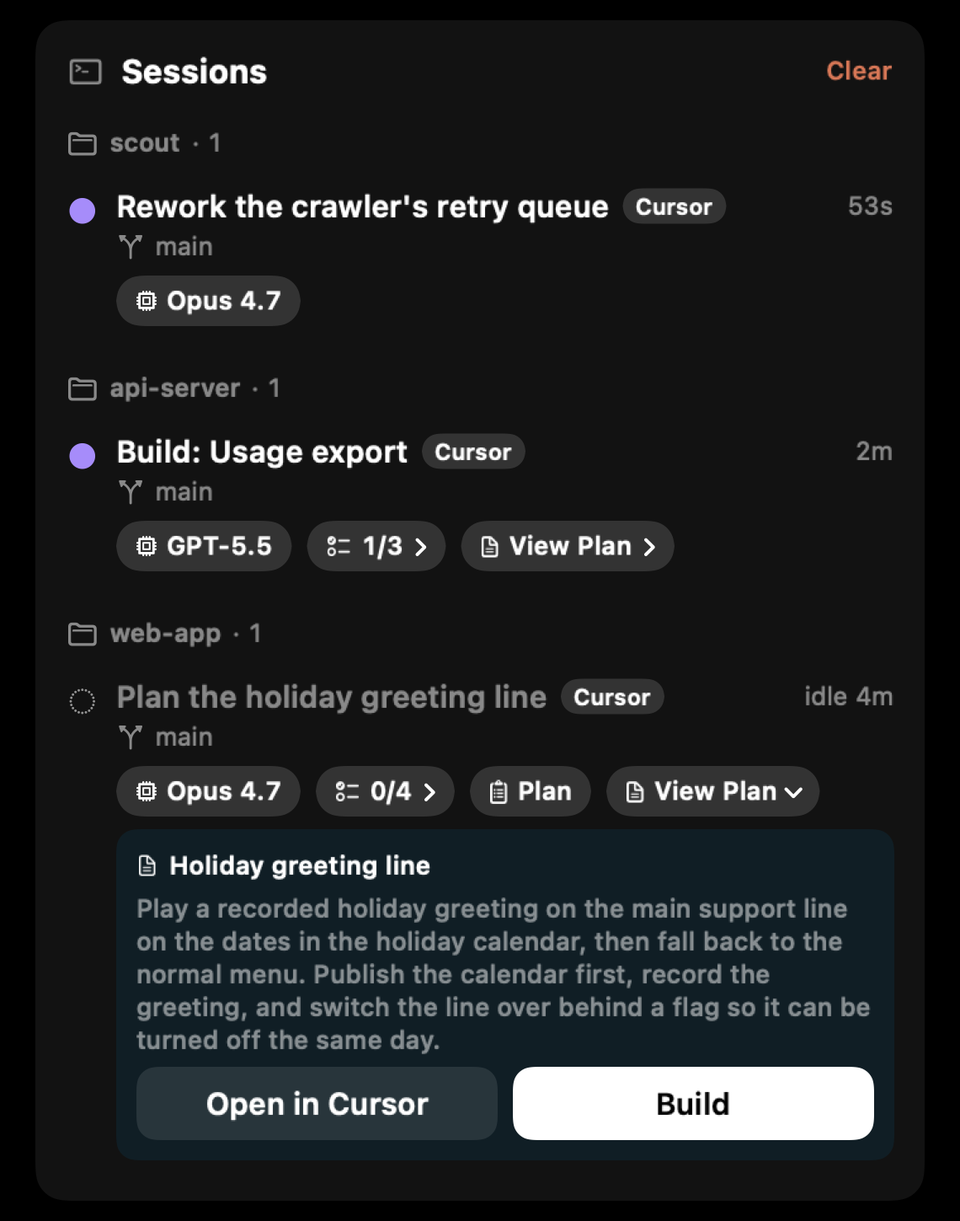
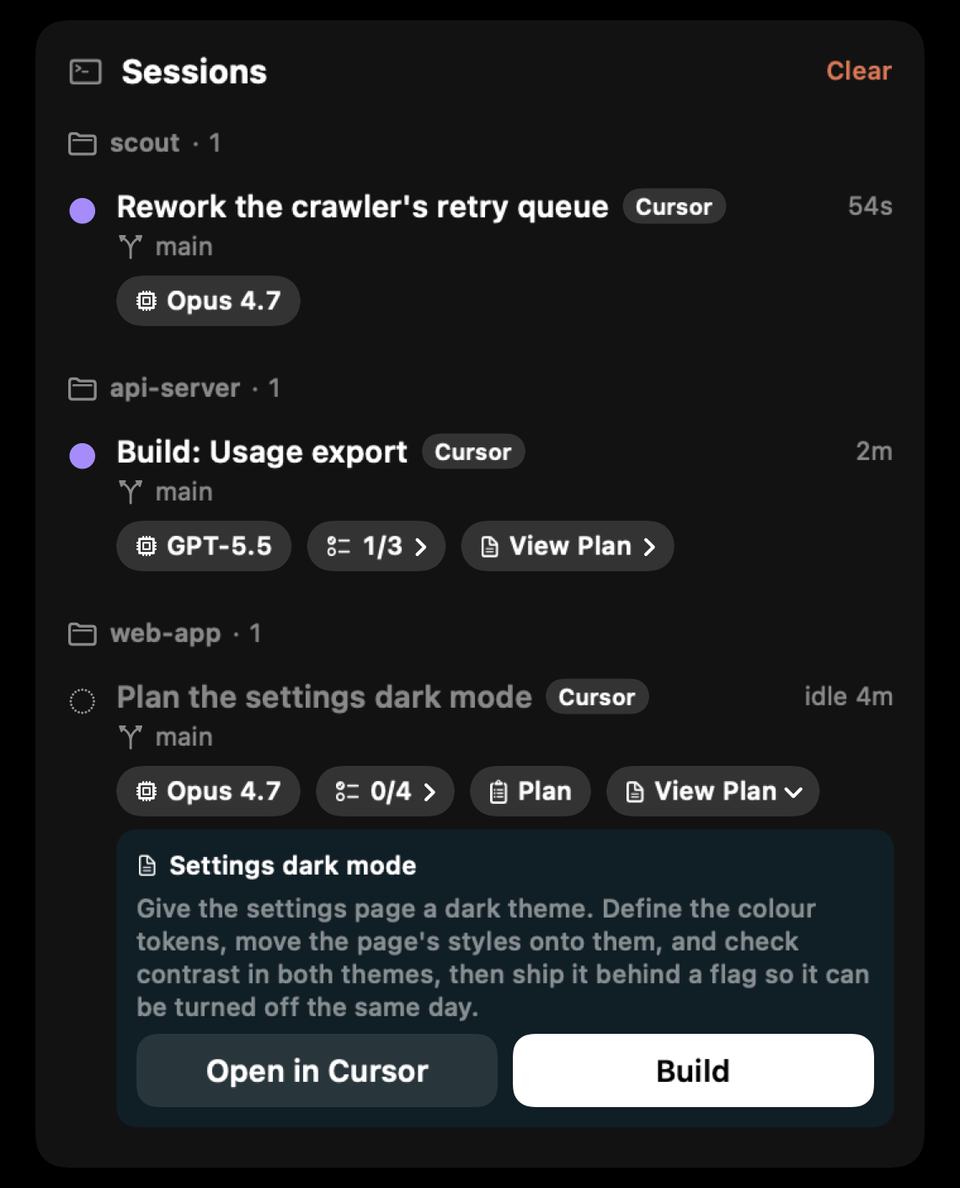
a click elsewhere leaves the notch open on Cursor's card; the pictures' plan is made up afresh
- A notch that opened on one of Cursor's own cards closed on the next click
  anywhere else, and is not opened twice for one card, so Run had to be fetched
  from the whole panel (reported 2026-10-05). It now ignores that click, as a
  panel with a request on it does (`PanelHolds.staysOpenOnOutsideClick`, both
  layouts). A click on the readouts, the shortcut, a swipe, the pointer coming in
  and leaving under Open on hover, and Show the whole panel are as they were.
- The made-up plan in the Cursor pictures was a holiday greeting line, which is
  the owner's own work. It is a settings page's dark mode now, in the fixture and
  in both pictures; `cursor-notch.png` is drawn again with it, and with View Plan
  as the chip that opens it has become.

Claude-Session: https://claude.ai/code/session_01WatWjXxWe8cfoq473eoYRe

diff --git a/Sources/Notchmeter/DemoFixtures.swift b/Sources/Notchmeter/DemoFixtures.swift
@@ -838,9 +838,9 @@ extension DemoFixtures {
         }
         let chats = cursorNotchChats
         // A plan made in Plan mode and not yet built: View Plan and Build are on its row.
-        feed(380, #"{"hook_event_name":"beforeSubmitPrompt","conversation_id":"n-1","workspace_roots":["/Users/me/web-app"],"composer_mode":"plan","model":"claude-opus-4-7","prompt":"Plan the holiday greeting line"}"#)
-        plan(chats.ready, 300, file: "/Users/me/.cursor/plans/holiday_greeting_1a2b3c4d.plan.md", [
-            #"{"role":"assistant","message":{"content":[{"type":"tool_use","name":"CreatePlan","input":{"name":"Holiday greeting line","todos":[{"id":"a","content":"Publish the holiday calendar"},{"id":"b","content":"Record the greeting"},{"id":"c","content":"Route the inbound line to it"},{"id":"d","content":"Call the number and listen"}]}}]}}"#,
+        feed(380, #"{"hook_event_name":"beforeSubmitPrompt","conversation_id":"n-1","workspace_roots":["/Users/me/web-app"],"composer_mode":"plan","model":"claude-opus-4-7","prompt":"Plan the settings dark mode"}"#)
+        plan(chats.ready, 300, file: "/Users/me/.cursor/plans/settings_dark_mode_1a2b3c4d.plan.md", [
+            #"{"role":"assistant","message":{"content":[{"type":"tool_use","name":"CreatePlan","input":{"name":"Settings dark mode","todos":[{"id":"a","content":"Add the colour tokens"},{"id":"b","content":"Move the settings page onto them"},{"id":"c","content":"Check contrast in both themes"},{"id":"d","content":"Ship it behind a flag"}]}}]}}"#,
         ])
         feed(290, #"{"hook_event_name":"stop","conversation_id":"n-1","workspace_roots":["/Users/me/web-app"],"status":"completed"}"#)
         // A plan being built: the turn is named for the plan, and a command is waiting on Cursor's own Run card.
@@ -858,8 +858,8 @@ extension DemoFixtures {
     /// What View Plan shows for the ready chat's plan (`cursor-plan.png`): the name the fixture's `CreatePlan` gave it
     /// and an overview as Cursor writes one, a sentence or two on what the plan does. Made up, like the chats.
     static let cursorPlanPreview = CursorPlanFiles.Preview(
-        name: "Holiday greeting line",
-        summary: "Play a recorded holiday greeting on the main support line on the dates in the holiday calendar, then fall back to the normal menu. Publish the calendar first, record the greeting, and switch the line over behind a flag so it can be turned off the same day.")
+        name: "Settings dark mode",
+        summary: "Give the settings page a dark theme. Define the colour tokens, move the page's styles onto them, and check contrast in both themes, then ship it behind a flag so it can be turned off the same day.")
 
     /// The cards Cursor's windows would be showing for `cursorNotch`: the building chat's Run prompt and the
     /// third chat's mode switch, as CursorCards.detect reads them.

diff --git a/Sources/Notchmeter/NotchController.swift b/Sources/Notchmeter/NotchController.swift
@@ -182,6 +182,16 @@ struct PanelHolds {
     static func pausesHover(menuOpen: Bool, held: Bool, promptHeld: Bool, expanded: Bool) -> Bool {
         menuOpen || held || (promptHeld && expanded)
     }
+
+    /// Whether a click somewhere else leaves an open panel open: while a request is on it, and while it is open on
+    /// one of Cursor's own cards alone (AttentionNotice.forCursorCard). Both are a question the assistant is stopped
+    /// on, and the next click is nearly always in the window being worked in, not a wish to be rid of the card: until
+    /// 0.9.18 that click closed the notch on Cursor's card, which is then not opened again for that card, so Run had
+    /// to be fetched from the whole panel. A click on the readouts, the shortcut, a swipe and, under Open on hover,
+    /// the pointer coming in and leaving still close it, and *Show the whole panel* makes it a panel like any other.
+    static func staysOpenOnOutsideClick(promptHeld: Bool, onCursorCard: Bool, expanded: Bool) -> Bool {
+        expanded && (promptHeld || onCursorCard)
+    }
 }
 
 /// The right-click / Options menu shared by every panel style and the menu bar item.
@@ -456,7 +466,10 @@ final class NotchController: NSObject, PanelPresenting {
         hover.isPaused = { [weak self] in
             self.map { PanelHolds.pausesHover(menuOpen: $0.menu.isOpen, held: $0.held, promptHeld: $0.promptHeld, expanded: $0.hover.state == .expanded) } ?? false
         }
-        hover.holdsOpen = { [weak self] in self.map { $0.promptHeld && $0.hover.state == .expanded } ?? false }
+        hover.holdsOpen = { [weak self] in
+            self.map { PanelHolds.staysOpenOnOutsideClick(promptHeld: $0.promptHeld, onCursorCard: $0.store.attentionNotice?.forCursorCard == true,
+                                                          expanded: $0.hover.state == .expanded) } ?? false
+        }
         hover.isOffScreen = { [weak self] in
             guard let self, let window = self.notch.windowController?.window, window.isVisible else { return false }
             return !window.isOnActiveSpace

diff --git a/Tests/NotchmeterTests/PanelHoldTests.swift b/Tests/NotchmeterTests/PanelHoldTests.swift
@@ -48,6 +48,12 @@ import Testing
         #expect(PanelHolds.pausesHover(menuOpen: true, held: false, promptHeld: false, expanded: false))
         #expect(PanelHolds.pausesHover(menuOpen: false, held: true, promptHeld: false, expanded: true))
         #expect(!PanelHolds.pausesHover(menuOpen: false, held: false, promptHeld: false, expanded: true))
+        // A click somewhere else leaves a panel open while a request is on it, and while it is open on one of
+        // Cursor's own cards alone (0.9.18: that click closed the notch, which is not opened twice for one card).
+        #expect(PanelHolds.staysOpenOnOutsideClick(promptHeld: true, onCursorCard: false, expanded: true))
+        #expect(PanelHolds.staysOpenOnOutsideClick(promptHeld: false, onCursorCard: true, expanded: true))
+        #expect(!PanelHolds.staysOpenOnOutsideClick(promptHeld: false, onCursorCard: false, expanded: true), "any other panel closes on it")
+        #expect(!PanelHolds.staysOpenOnOutsideClick(promptHeld: true, onCursorCard: true, expanded: false), "a closed panel holds nothing")
         #expect(!PanelHolds.pausesHover(menuOpen: false, held: false, promptHeld: false, expanded: false))
     }
 

diff --git a/Sources/Notchmeter/EdgePanelController.swift b/Sources/Notchmeter/EdgePanelController.swift
@@ -76,7 +76,10 @@ final class EdgePanelController: NSObject, PanelPresenting {
         hover.isPaused = { [weak self] in
             self.map { PanelHolds.pausesHover(menuOpen: $0.menu.isOpen, held: $0.held, promptHeld: $0.promptHeld, expanded: $0.expanded) } ?? false
         }
-        hover.holdsOpen = { [weak self] in self.map { $0.promptHeld && $0.expanded } ?? false }
+        hover.holdsOpen = { [weak self] in
+            self.map { PanelHolds.staysOpenOnOutsideClick(promptHeld: $0.promptHeld, onCursorCard: $0.store.attentionNotice?.forCursorCard == true,
+                                                          expanded: $0.expanded) } ?? false
+        }
         hover.isOffScreen = { [weak self] in self.map { $0.panel.isVisible && !$0.panel.isOnActiveSpace } ?? false }
         hover.pointerEnteredCompact = { [weak self] in self?.store.wakeFromIdle() }
         hover.ringAt = { [weak self] point in self?.ringTargets.tool(at: point) }

diff --git a/site/cursor-usage-tracker/index.html b/site/cursor-usage-tracker/index.html
@@ -189,7 +189,7 @@
   <div class="wrap">
     <div class="split">
       <figure class="lp-figure fit-narrow">
-        <div class="shot"><img src="../img/cursor-plan.png" alt="The Sessions card with three Cursor chats. The chat with a plan ready has it shown on its row: the plan's name, Holiday greeting line, a short summary of what the plan does, and two buttons under it, Open in Cursor and Build." loading="lazy"></div>
+        <div class="shot"><img src="../img/cursor-plan.png" alt="The Sessions card with three Cursor chats. The chat with a plan ready has it shown on its row: the plan's name, Settings dark mode, a short summary of what the plan does, and two buttons under it, Open in Cursor and Build." loading="lazy"></div>
         <figcaption>View Plan on a made-up chat: the plan's name and Cursor's own summary of it on the row, with Open in Cursor and Build under them.</figcaption>
       </figure>
       <div>

diff --git a/docs/hooks.md b/docs/hooks.md
@@ -349,7 +349,7 @@ The file **Add** writes is the same object with its keys sorted, so `"hooks"` co
 **Answering Cursor from the notch (0.9.15).** Two switches on Cursor's page in Settings, both off by default:
 
 - **Require notch approval for every command.** `beforeShellExecution` and `beforeMCPExecution` are the two events Cursor waits on and whose flat answer it obeys: `{"permission":"allow"}`, `{"permission":"deny","user_message":…,"agent_message":…}` or `{"permission":"ask"}`. They fire for every call, after Cursor's own allowlist, so with this on every shell command and MCP call waits for Allow or Deny in the notch, including the ones Cursor would have run without asking. Silence would let the call run, so a call nobody answers prints `{"permission":"ask"}` and Cursor shows its own prompt. The same is printed for a call the command could not hold: a payload too large or too late to read whole, a shell call naming no command, an MCP call with no usable tool name. While one call for a chat is on the notch's card, a second held for the same chat (a call made beside it, or a subagent's) is handed to Cursor's own prompt too, so the card never changes under a click. The switch counts only while *Answer from the notch* is on for Cursor and Cursor's sessions are read; with either off the command holds nothing. The card's third answer, *Answer in Cursor*, does the same on purpose: it hands the call back to Cursor's own prompt. What the switch cannot cover is the hook itself not running: the entries carry no `failClosed` (it must stay off, because with the switch off the command prints nothing, and under `failClosed` no output would stop every command), so if the command cannot be started, crashes, or outlives its 600-second timeout, Cursor carries on under its own rules, its allowlist and its own prompt, with no decision from the notch. *Require notch approval* is a hold on every call the hook is asked about, not a guarantee against a hook that never answered. Off, the two events stay signs of life, as before. `preToolUse` is not used, because Cursor does not enforce its `ask`.
-- **Mirror Cursor's cards.** Cursor's own Run prompt and its mode-switch card have no hook event, and neither has the Build button on a created plan's card. With this on and the Accessibility permission granted, the app reads Cursor's windows through Accessibility once a second while a Cursor chat on this Mac is in a turn (it sets `AXManualAccessibility` so Cursor's Electron window builds its tree, bounded to 20,000 nodes per read, one message to Cursor per element), shows the Run card (Skip, Run, and Always Run where Cursor offers it) and the mode-switch card (Skip, Switch) on the chat's row with Cursor's own button labels, and presses the button you pick. The mode card's *Always ask* is a menu that sets a preference (Always ask, Always run), not an answer, so it stays in Cursor; Cursor withdraws that card by itself after fifteen seconds. A Run card is headed by the command it would run, read from the card, not by the sentence written about it. The app re-reads the card before the press and presses nothing if the card changed, then checks the card went away. Since 0.9.17 a card that starts a wait opens the notch on that chat's card alone, its buttons on it and *Show the whole panel* under it, the way a held request's card opens it. It is opened to stay, as a click opens it, and closes when the card has been answered, in the notch or in Cursor, or the way any open panel is closed (Escape, a click outside), after which it is not opened again for that card. Unlike a request's card it does not take the keyboard: its buttons have no shortcuts, and a card nobody asked for must not take the keys from the app being typed in. A panel already open keeps the card on its row; a held request keeps the panel, taking over one that was open on a card; nothing opens over one of the app's own windows or over a full-screen app the notch is keeping out of; and a card that appears on a chat already waiting (a call handed back with *Answer in Cursor*) opens nothing, since it is being answered there. Two things keep a card from flickering. A read of Cursor's window that Cursor did not answer in time comes back short, and is waited out (three in a row are taken as they are) instead of taking the card off its row; and a card that leaves Cursor's tree and is back within three seconds, as happens while the chat redraws, is the same card, so the notch is not opened on it twice. While a press is on its way the card's buttons are held and Cursor's window is not read beside it; the card then leaves the row with the note that says what was pressed, in one change, and a read of the window that was out across the press is dropped, so it cannot put the card back (0.9.16 left the card beside the note until the next read, and the row jumped). Nothing is read while every Cursor chat is idle or finished, while the Mac is locked or asleep, or with the switch off, and turning the switch off, or quitting, tells Cursor the app has stopped reading. It never reads the screen's pixels, and keeps no text from the window beyond each card's heading (at most 160 characters), a question's choices, the chat's name where the window shows one and the button labels, held in memory and written to no log, report or notification. Since 0.9.16: Cursor shows the same Skip and Run for other things it asks you to approve, a file written outside the workspace for one; with no command drawn the card says *Cursor is waiting for your approval* and is headed by what the approval is for, as Cursor words it (*Create* and the file's path). A question the agent asks (its `AskQuestion` tool) is mirrored as *Cursor is asking a question*, with the question and its choices as Cursor letters them, and one button, **Answer in Cursor**, that brings the chat's window forward (the folder the hook named, as a click on the row does, or Cursor itself when it named none; a button of its own, so it works with *Jump to the terminal on click* off): the row says the chat is waiting, which no hook does, and the answer is given in Cursor. The question and its choices are hidden like a prompt's title, with *Show what a session is working on* off or the screen shared, and the card and its button stay. A choice there is picked and then sent with Continue, which Cursor draws as plain text and not as a button, and nothing in its tree says which choices are picked or whether several may be, so the app presses none of it. A plan row's **View Plan** shows the plan on the row (0.9.18): its name and Cursor's own `overview`, read from the plan file's frontmatter when the preview is opened, or the first heading and first paragraph of its text where the frontmatter has neither, cut to 120 and 480 characters. They are held in memory only while the preview is open, are written to no log, report or notification, and go with the titles: with *Show what a session is working on* off or the screen shared nothing of a plan is read onto the row, and View Plan goes straight to Cursor. **Open in Cursor** on the preview opens the plan file in Cursor and closes the panel, which otherwise stood over the plan it had just opened (a panel with a request on it stays, and so does one under Always open); a row's jump to its terminal and **Answer in Cursor** close it the same way; **Build** takes one read of its own, presses Build on that plan's card, or opens the plan in Cursor and says so when the card is not on screen. Which row a card goes on: the one Cursor chat that is in a turn; among several, the one the Agents window's header names, else the one in the workspace an editor window's title names, else, in the Agents window only, the one heard from last, and the card then stays on that row while it is on screen. Since 0.9.16, when the header names a chat no row is known by yet, the app reads Cursor's own names for the chats in a turn (the read described under *Cursor's own name for a chat* below, with its same two conditions) once for that card and places the card on the next read of the window, a second later, so it is not put on the chat heard from last and left there.
+- **Mirror Cursor's cards.** Cursor's own Run prompt and its mode-switch card have no hook event, and neither has the Build button on a created plan's card. With this on and the Accessibility permission granted, the app reads Cursor's windows through Accessibility once a second while a Cursor chat on this Mac is in a turn (it sets `AXManualAccessibility` so Cursor's Electron window builds its tree, bounded to 20,000 nodes per read, one message to Cursor per element), shows the Run card (Skip, Run, and Always Run where Cursor offers it) and the mode-switch card (Skip, Switch) on the chat's row with Cursor's own button labels, and presses the button you pick. The mode card's *Always ask* is a menu that sets a preference (Always ask, Always run), not an answer, so it stays in Cursor; Cursor withdraws that card by itself after fifteen seconds. A Run card is headed by the command it would run, read from the card, not by the sentence written about it. The app re-reads the card before the press and presses nothing if the card changed, then checks the card went away. Since 0.9.17 a card that starts a wait opens the notch on that chat's card alone, its buttons on it and *Show the whole panel* under it, the way a held request's card opens it. It is opened to stay, and closes when the card has been answered, in the notch or in Cursor. Since 0.9.18 a click somewhere else does not close it, as it does not close a request's card: the next click is nearly always in the window being worked in, and a notch closed by it is not opened again for that card, which left Run to be fetched from the whole panel. Putting it away without answering is a click on the readouts beside the notch (under Open on click), the shortcut, a swipe up over them, or, under Open on hover, the pointer coming in and leaving; *Show the whole panel* makes it a panel like any other. After any of those it is not opened again for that card. Unlike a request's card it does not take the keyboard: its buttons have no shortcuts, and a card nobody asked for must not take the keys from the app being typed in. A panel already open keeps the card on its row; a held request keeps the panel, taking over one that was open on a card; nothing opens over one of the app's own windows or over a full-screen app the notch is keeping out of; and a card that appears on a chat already waiting (a call handed back with *Answer in Cursor*) opens nothing, since it is being answered there. Two things keep a card from flickering. A read of Cursor's window that Cursor did not answer in time comes back short, and is waited out (three in a row are taken as they are) instead of taking the card off its row; and a card that leaves Cursor's tree and is back within three seconds, as happens while the chat redraws, is the same card, so the notch is not opened on it twice. While a press is on its way the card's buttons are held and Cursor's window is not read beside it; the card then leaves the row with the note that says what was pressed, in one change, and a read of the window that was out across the press is dropped, so it cannot put the card back (0.9.16 left the card beside the note until the next read, and the row jumped). Nothing is read while every Cursor chat is idle or finished, while the Mac is locked or asleep, or with the switch off, and turning the switch off, or quitting, tells Cursor the app has stopped reading. It never reads the screen's pixels, and keeps no text from the window beyond each card's heading (at most 160 characters), a question's choices, the chat's name where the window shows one and the button labels, held in memory and written to no log, report or notification. Since 0.9.16: Cursor shows the same Skip and Run for other things it asks you to approve, a file written outside the workspace for one; with no command drawn the card says *Cursor is waiting for your approval* and is headed by what the approval is for, as Cursor words it (*Create* and the file's path). A question the agent asks (its `AskQuestion` tool) is mirrored as *Cursor is asking a question*, with the question and its choices as Cursor letters them, and one button, **Answer in Cursor**, that brings the chat's window forward (the folder the hook named, as a click on the row does, or Cursor itself when it named none; a button of its own, so it works with *Jump to the terminal on click* off): the row says the chat is waiting, which no hook does, and the answer is given in Cursor. The question and its choices are hidden like a prompt's title, with *Show what a session is working on* off or the screen shared, and the card and its button stay. A choice there is picked and then sent with Continue, which Cursor draws as plain text and not as a button, and nothing in its tree says which choices are picked or whether several may be, so the app presses none of it. A plan row's **View Plan** shows the plan on the row (0.9.18): its name and Cursor's own `overview`, read from the plan file's frontmatter when the preview is opened, or the first heading and first paragraph of its text where the frontmatter has neither, cut to 120 and 480 characters. They are held in memory only while the preview is open, are written to no log, report or notification, and go with the titles: with *Show what a session is working on* off or the screen shared nothing of a plan is read onto the row, and View Plan goes straight to Cursor. **Open in Cursor** on the preview opens the plan file in Cursor and closes the panel, which otherwise stood over the plan it had just opened (a panel with a request on it stays, and so does one under Always open); a row's jump to its terminal and **Answer in Cursor** close it the same way; **Build** takes one read of its own, presses Build on that plan's card, or opens the plan in Cursor and says so when the card is not on screen. Which row a card goes on: the one Cursor chat that is in a turn; among several, the one the Agents window's header names, else the one in the workspace an editor window's title names, else, in the Agents window only, the one heard from last, and the card then stays on that row while it is on screen. Since 0.9.16, when the header names a chat no row is known by yet, the app reads Cursor's own names for the chats in a turn (the read described under *Cursor's own name for a chat* below, with its same two conditions) once for that card and places the card on the next read of the window, a second later, so it is not put on the chat heard from last and left there.
 
   One cost is visible in Cursor: asked for its accessibility tree, Cursor takes the asker for a screen reader, and its editor's status bar shows *Screen Reader Optimized* (Cursor 3.23.12). Setting `"editor.accessibilitySupport": "off"` in Cursor's settings keeps the editor as it was while the cards are still read.
 

diff --git a/docs/features.md b/docs/features.md
@@ -42,7 +42,7 @@ With the optional [hooks](hooks.md) — one each for Claude Code, Codex, Cursor,
 
 ![The Sessions card with three Cursor chats. One asks to switch to Plan Mode, with Skip and Switch on its row. One is building a plan, its task list open at one of three done, with Cursor's Run prompt on the row: the command, Skip and Run. One has a plan ready, with its Plan mode chip, View Plan and Build.](media/cursor-notch.png)
 
-![The Sessions card with three Cursor chats. The chat with a plan ready has it shown on its row: the plan's name, Holiday greeting line, a short summary of what the plan does, and two buttons under it, Open in Cursor and Build.](media/cursor-plan.png)
+![The Sessions card with three Cursor chats. The chat with a plan ready has it shown on its row: the plan's name, Settings dark mode, a short summary of what the plan does, and two buttons under it, Open in Cursor and Build.](media/cursor-plan.png)
 
 **Sessions before any hook** (0.9.0). The card does not wait for a hook to be installed: *Find sessions without the hook* (Settings › Assistants › Sessions, on by default) lists the Claude Code, Codex, Cursor, Gemini CLI and Copilot sessions running in a terminal from the first launch, from the process, its folder, Claude Code's own session files and the end of its transcript, all read and never written. Such a row has the title Claude Code gave the session (only while titles are on and never while the screen is shared), the project, the branch on its second line ("feat/zero-config · iTerm"), the model chip where the rows' models differ, the elapsed time, a working-or-idle guess and the jump to its terminal, and a quiet dashed *detected* mark beside the assistant's chip whose tooltip says that its working is a guess that can trail the turn by a few seconds and that a wait for your answer is not shown (VoiceOver reads the row as *Found without the hook* with the hint *Working is a guess, and a wait for your answer is not shown without the hook*, and the status mark's tooltip says *Working, as far as the running process and its files show*). A detected session never raises the waiting hand, a notification or news in the notch, never lights the *just finished* tick and never holds the Mac awake. A session only Claude Code's status line has reported (the Welcome flow installs the status line even when the hook is declined) is such a row too: it keeps the status line's model, name and context gauge, takes the scan's working or idle, and wears the same mark. While any such row's assistant has no hook installed, the card ends on one line, *Install the hook for exact turn ends and answering from the notch.*, with an *Install the hook…* button that opens the hook's own install flow in Settings (nothing is written until you press Add there, after the usual backup). The hook's first event for a session takes its row over, and a session the hook reports is always the hook's. The scan runs every 3 seconds while an assistant is running and every 15 while none is, twice as long on battery, and not at all while nobody can see the screen; [docs/hooks.md](hooks.md#sessions-found-without-the-hook) has what is read and [docs/accuracy.md](accuracy.md#sessions-found-without-the-hook) what the guess can and cannot know. `--render-assets` draws the first launch as `expanded-detected.png`, with the card alone as `sessions-detected.png` and under Increase Contrast as `sessions-detected-contrast.png`, for review.
 

diff --git a/CHANGELOG.md b/CHANGELOG.md
@@ -7,6 +7,7 @@ Every released version of Notchmeter, newest first. From 0.7.0 each section is t
 ### Cursor
 
 - **View Plan** on a Cursor chat's row now shows the plan in the notch: its name and Cursor's own summary of it, with **Open in Cursor** under it, and **Build** beside that while the plan is ready to build. Open in Cursor takes you to the plan and closes the notch. Before, View Plan opened the plan in Cursor behind a notch that stayed open over it, under *Open on click* until you clicked somewhere else, so it looked as if nothing had happened. With *Show what a session is working on* off, or while the screen is shared, a plan's words are not shown and View Plan goes straight to Cursor.
+- A notch that opened on one of Cursor's own cards no longer closes when you click somewhere else, which left you to open the whole panel to reach Run. It stays until the card is answered, in the notch or in Cursor, or you put it away yourself: a click on the readouts beside the notch under *Open on click*, the pointer passing over it and away under *Open on hover*.
 - A click on a session's row that jumps to its terminal, and **Answer in Cursor**, now close the notch as they take you there, as Open in Cursor does. A panel with a request waiting for Allow or Deny stays open.
 - Cursor's page in Settings now says, under *Require notch approval for every command*, what that switch adds: it is not needed to answer Cursor from the notch, since *Mirror Cursor's cards* brings Cursor's own prompts there, and it asks about every command on top of those, including the ones Cursor would have run without asking. Before, the switch's name could be read as the only way to answer Cursor here. The line reads the same way in all eleven languages.
 

diff --git a/docs/release-notes/0.9.18.md b/docs/release-notes/0.9.18.md
@@ -3,6 +3,7 @@
 ### Cursor
 
 - **View Plan** on a Cursor chat's row now shows the plan in the notch: its name and Cursor's own summary of it, with **Open in Cursor** under it, and **Build** beside that while the plan is ready to build. Open in Cursor takes you to the plan and closes the notch. Before, View Plan opened the plan in Cursor behind a notch that stayed open over it, under *Open on click* until you clicked somewhere else, so it looked as if nothing had happened. With *Show what a session is working on* off, or while the screen is shared, a plan's words are not shown and View Plan goes straight to Cursor.
+- A notch that opened on one of Cursor's own cards no longer closes when you click somewhere else, which left you to open the whole panel to reach Run. It stays until the card is answered, in the notch or in Cursor, or you put it away yourself: a click on the readouts beside the notch under *Open on click*, the pointer passing over it and away under *Open on hover*.
 - A click on a session's row that jumps to its terminal, and **Answer in Cursor**, now close the notch as they take you there, as Open in Cursor does. A panel with a request waiting for Allow or Deny stays open.
 - Cursor's page in Settings now says, under *Require notch approval for every command*, what that switch adds: it is not needed to answer Cursor from the notch, since *Mirror Cursor's cards* brings Cursor's own prompts there, and it asks about every command on top of those, including the ones Cursor would have run without asking. Before, the switch's name could be read as the only way to answer Cursor here. The line reads the same way in all eleven languages.
 
